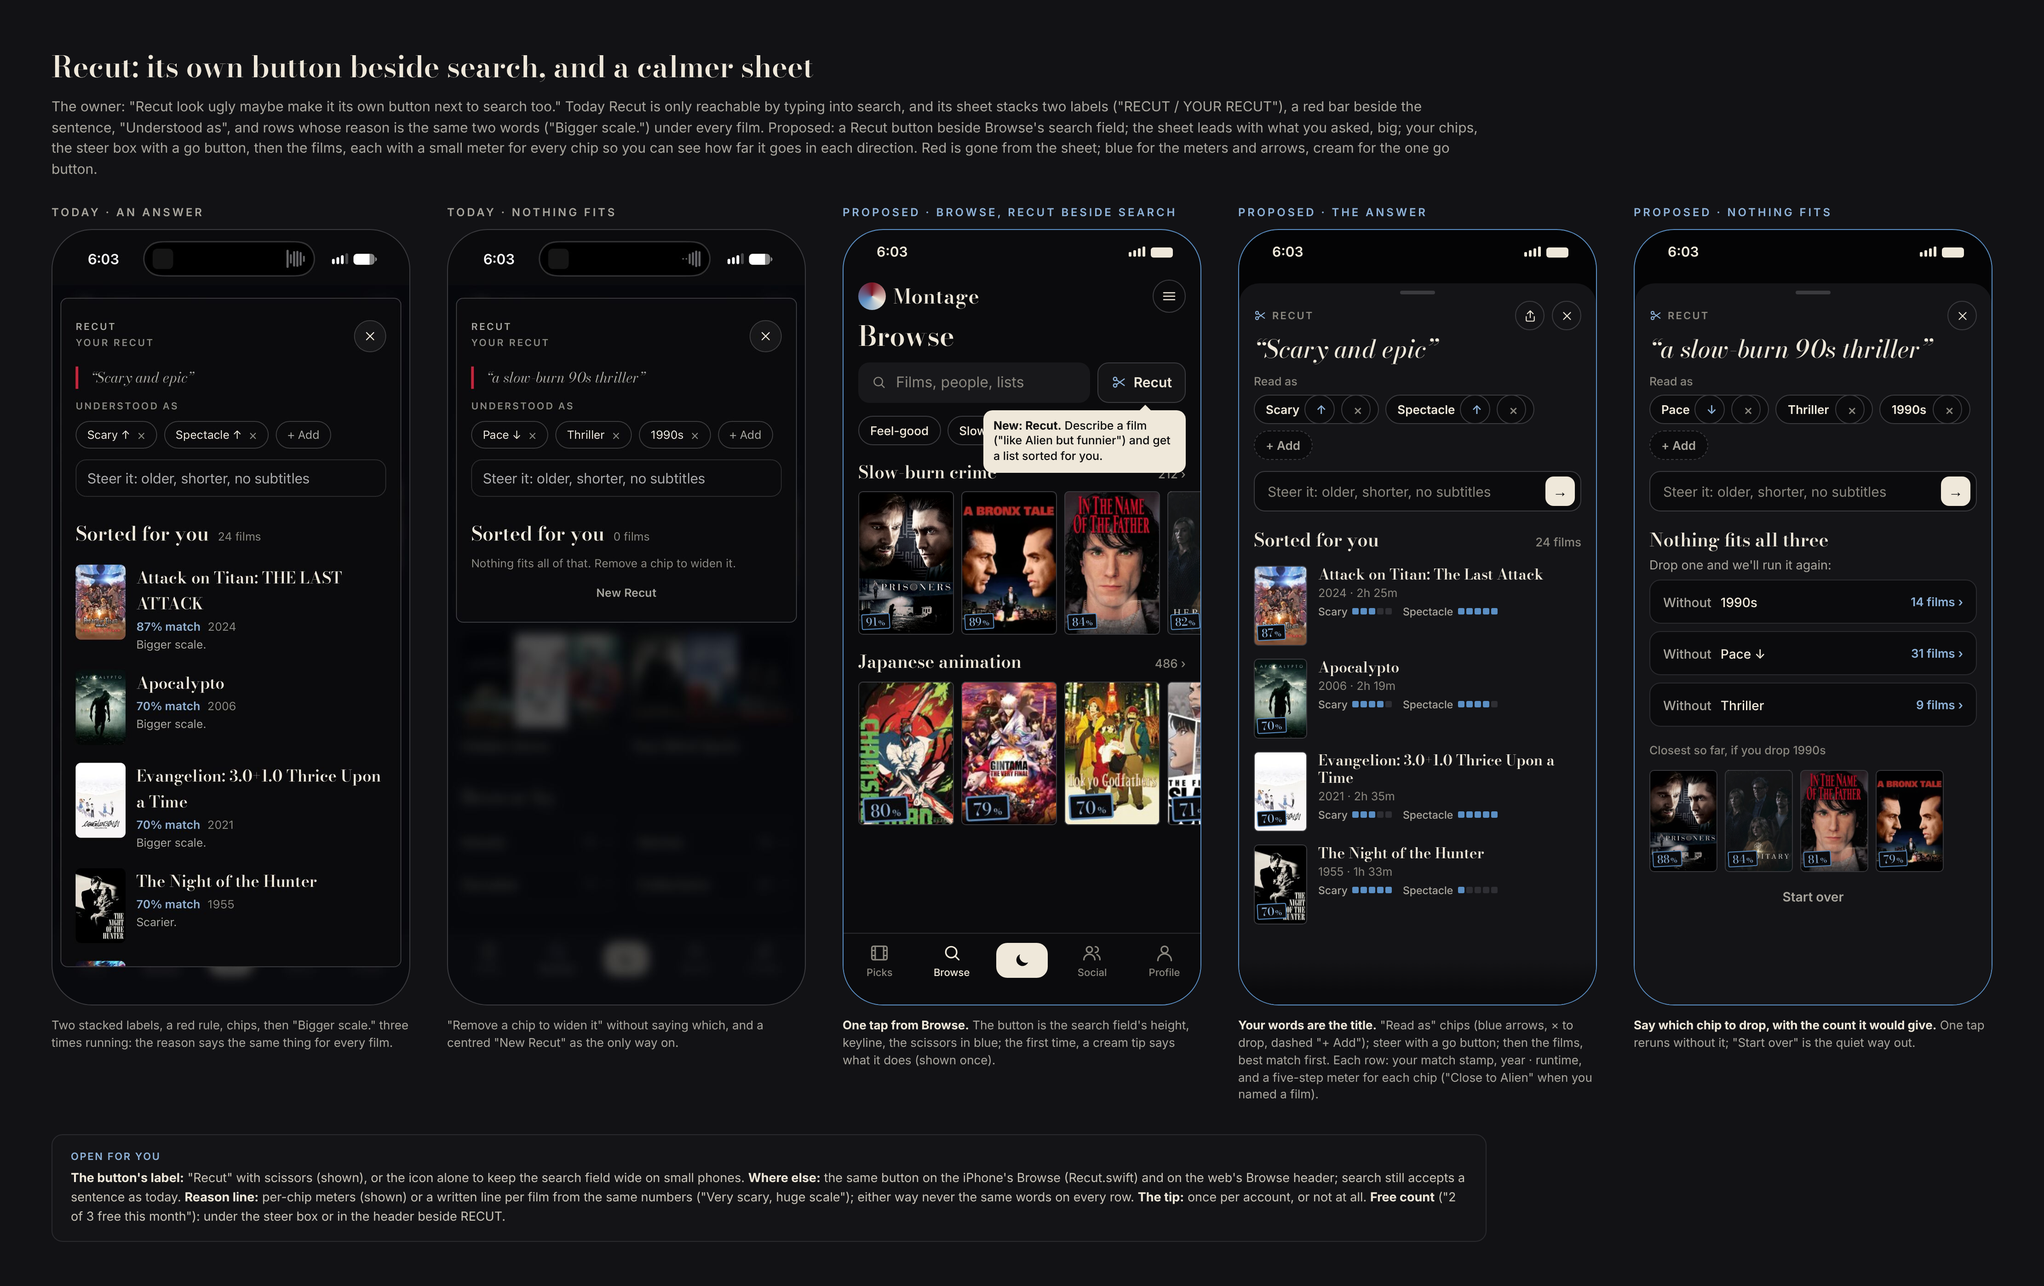
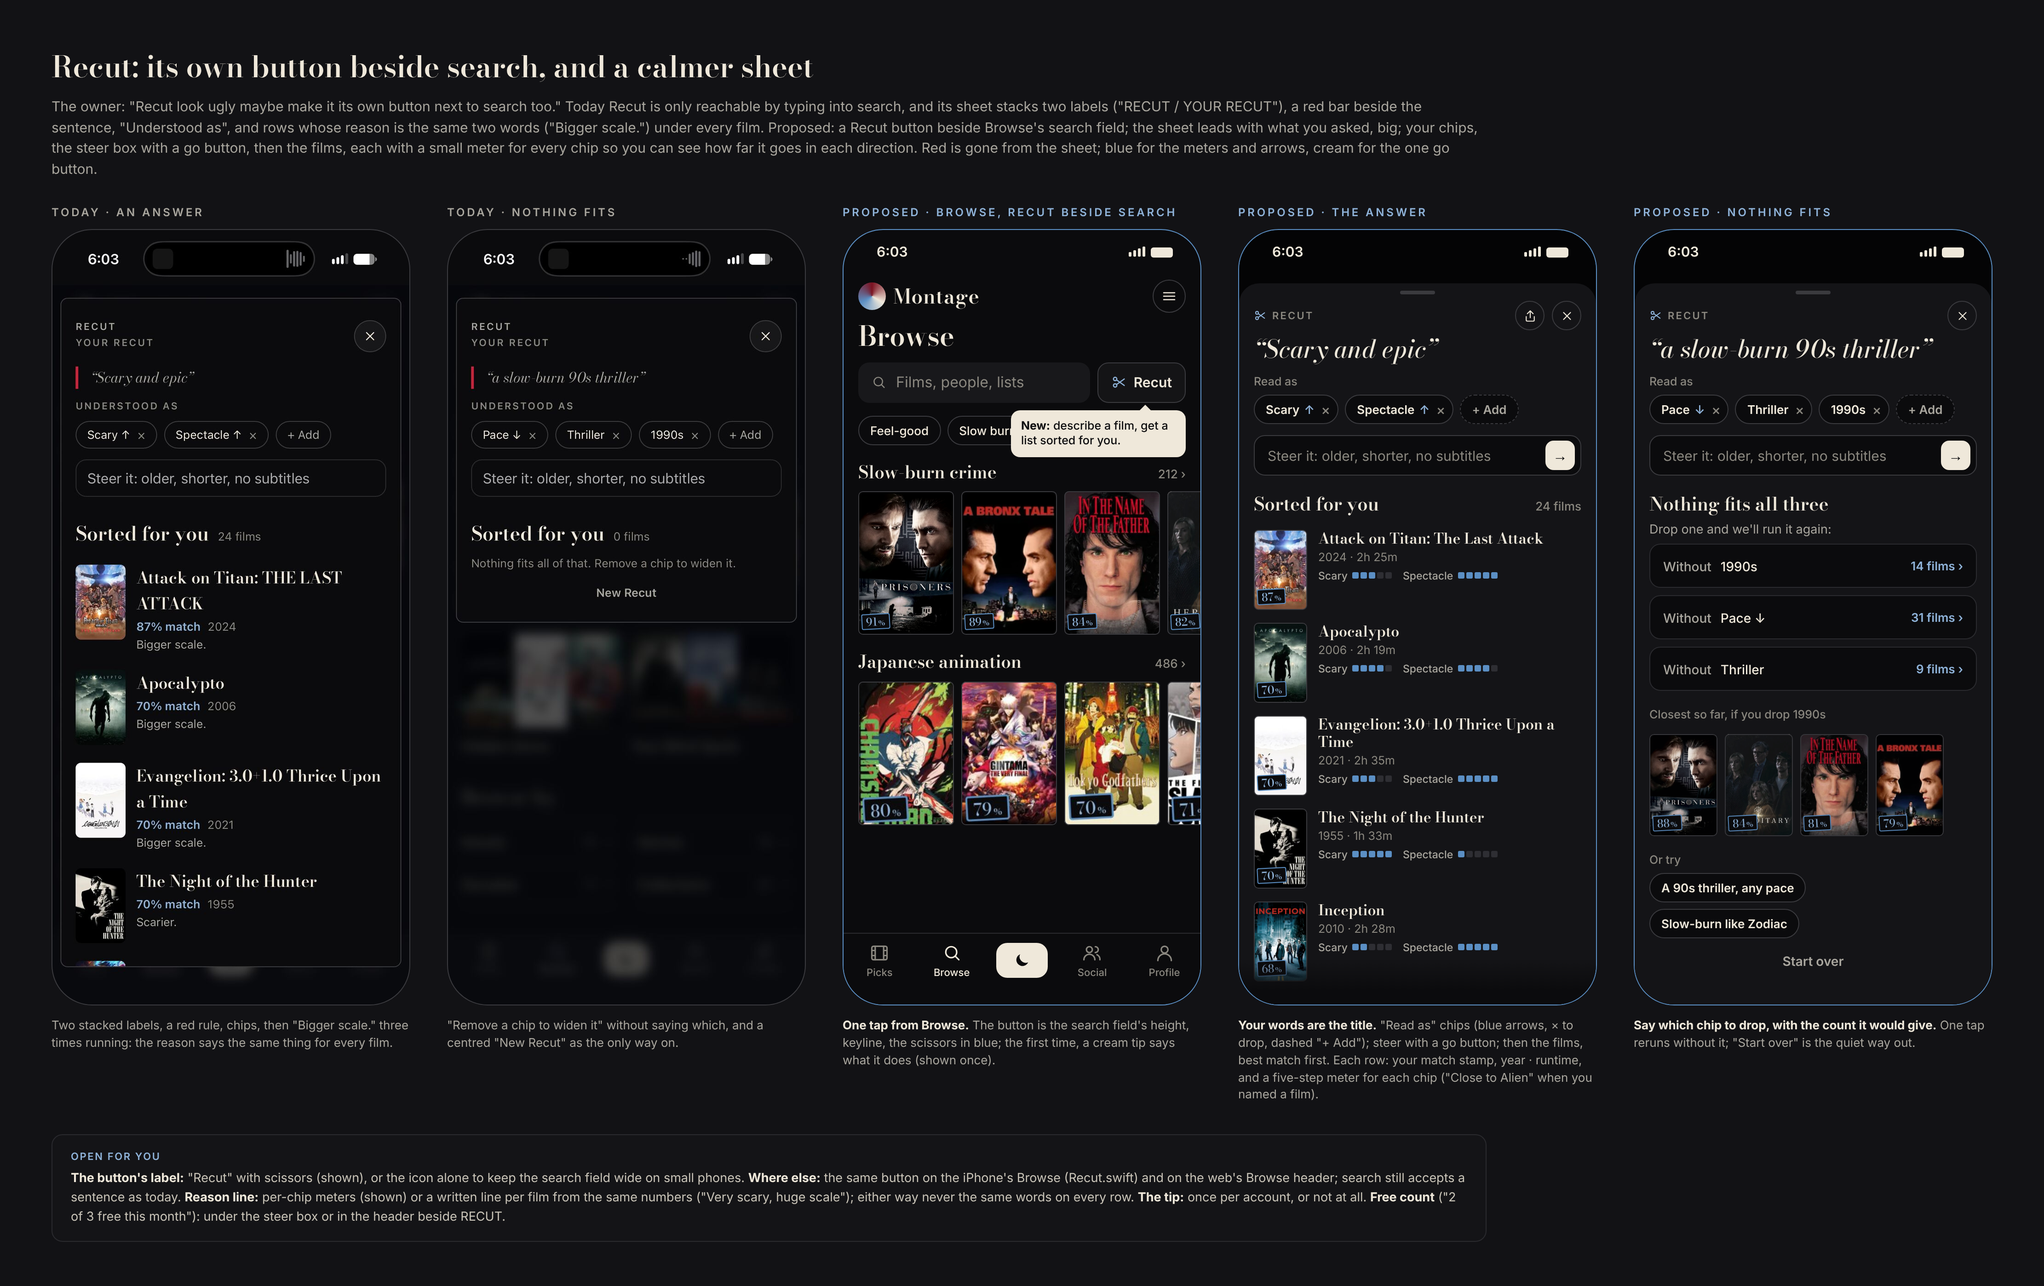
Mocks: year-goal-v2, recut-v2 revision
Claude-Session: https://claude.ai/code/session_013WRDCFXH8nihP92apJAVW7

diff --git a/mockups/journeys/year-goal-v2.html b/mockups/journeys/year-goal-v2.html
@@ -1,0 +1,94 @@
+<!doctype html><html><head><meta charset="utf-8"><title>Your year, on the profile</title>
+<link href="https://fonts.googleapis.com/css2?family=Bodoni+Moda:opsz,wght@6..96,500;6..96,600&family=Inter:wght@400;500;600;700&display=block" rel="stylesheet">
+<link rel="stylesheet" href="../proportions-common.css"><link rel="stylesheet" href="beli.css"><link rel="stylesheet" href="owner-notes.css">
+<style>
+.ph{display:flex;gap:16px;align-items:center;margin-top:14px}
+.ph img{width:76px;height:76px;object-fit:cover;outline:1px solid #EFE8DA;border-radius:2px}
+.ph .n{font:600 28px/1.05 'Bodoni Moda'}.ph .h{font:400 14px Inter;color:#A9A69E;margin-top:4px}
+.fl{font:400 14px Inter;color:#A9A69E;margin-top:12px}.fl b{color:#EFE8DA;font-weight:600}
+.bio{font:400 15px 'Bodoni Moda';color:#C9C4B8;margin-top:6px}
+.pbt{display:grid;grid-template-columns:1fr 1fr;gap:10px;margin-top:14px}
+.pbt span{height:40px;border-radius:999px;border:1px solid #3A3A3E;display:flex;align-items:center;justify-content:center;gap:6px;font:600 14px Inter}
+/* the year tile */
+.yt{margin-top:16px;padding:14px 14px 12px}
+.yt .k{display:flex;justify-content:space-between;align-items:center;font:600 11px Inter;letter-spacing:1.4px;text-transform:uppercase;color:#8A877F}
+.yt .mid{display:flex;align-items:flex-end;justify-content:space-between;margin-top:6px}
+.yt .big{font:500 44px/1 'Bodoni Moda'}.yt .big small{font:400 14px Inter;color:#A9A69E;margin-left:6px}
+.yt .sub{font:400 12.5px Inter;color:#8A877F;margin-top:4px}
+.mb{display:flex;align-items:flex-end;gap:3px;height:38px}
+.mb i{width:6px;border-radius:1.5px;background:#3A3A3E}.mb i.hi{background:#8FB3D9}.mb i.f{background:#2A2A2E}
+.trk{position:relative;height:4px;border-radius:2px;background:#2A2A2E;margin-top:12px}
+.trk i{position:absolute;left:0;top:0;bottom:0;border-radius:2px;background:#5B8FC4}
+.trk b{position:absolute;top:-3px;width:2px;height:10px;background:#EFE8DA;border-radius:1px}
+.yt .ft{display:flex;justify-content:space-between;align-items:center;margin-top:12px;font:600 13px Inter}
+.yt .ft .bl{color:#8FB3D9}.yt .ft .mu{color:#8A877F;font-weight:500}
+.ptabs{display:flex;gap:24px;margin-top:22px;font:500 16px Inter;color:#8A877F}.ptabs .on{color:#EFE8DA;box-shadow:inset 0 -2px 0 #5B8FC4;padding-bottom:8px}
+.arch{margin-top:18px;border-left:3px solid #7A1220;padding-left:14px}
+.arch .k{font:600 11px Inter;letter-spacing:1.6px;text-transform:uppercase;color:#A9A69E}.arch .n{font:600 42px/1.1 'Bodoni Moda';margin-top:4px}
+.stt{font:600 11px Inter;letter-spacing:1.3px;text-transform:uppercase;color:#8A877F;margin:20px 0 0}
+.stt:first-child{margin-top:0}
+.stt+.yt{margin-top:8px}
+/* the viewer */
+.vw{position:absolute;left:0;right:0;top:50px;bottom:0;background:#141417;border-radius:22px 22px 0 0;padding:8px 20px 0;z-index:6}
+.vh{display:flex;align-items:center;justify-content:space-between;height:40px}.vh b{font:600 22px 'Bodoni Moda'}.vh .ic2{width:32px;height:32px}
+.yc{position:relative;margin:10px 4px 0;height:604px;background:#0B0B0D;outline:1px solid #EFE8DA;box-shadow:6px 6px 0 #7A1220;border-radius:3px;padding:18px 18px 14px;display:flex;flex-direction:column}
+.yc .top{display:flex;justify-content:space-between;align-items:baseline;height:auto}
+.yc .top .k{font:600 10px Inter;letter-spacing:2.2px;color:#8FB3D9;text-transform:uppercase}.yc .top b{font:500 22px 'Bodoni Moda'}
+.mos{display:grid;grid-template-columns:repeat(5,1fr);gap:5px;margin-top:14px}.mos .sp{aspect-ratio:2/3;border-radius:2px}
+.yc .n{font:500 150px/.88 'Bodoni Moda';margin-top:18px;letter-spacing:-2px}
+.yc .l{font:400 17px 'Bodoni Moda';color:#C9C4B8;margin-top:6px}
+.yc .two{display:grid;grid-template-columns:1fr 1fr;gap:10px;margin-top:16px}
+.yc .two b{display:block;font:600 21px/1.1 'Bodoni Moda'}.yc .two span{font:400 12.5px 'Bodoni Moda';color:#A9A69E}
+.yc .bars{display:flex;align-items:flex-end;gap:5px;height:124px;margin-top:auto}
+.yc .bars i{flex:1;background:#2E2E33;border-radius:1.5px}.yc .bars i.hi{background:#8FB3D9}
+.yc .ml{display:flex;gap:5px;margin-top:5px}.yc .ml span{flex:1;text-align:center;font:500 9px Inter;color:#8A877F}
+.yc .foot{display:flex;justify-content:space-between;align-items:center;margin-top:14px;padding-top:0}
+.yc .foot .wm{font:600 16px 'Bodoni Moda';display:flex;align-items:center;gap:6px}.yc .foot .wm .fan{width:16px;height:16px}
+.yc .foot .u{font:600 9px Inter;letter-spacing:1.8px;color:#8FB3D9}
+.dots{display:flex;gap:6px;justify-content:center;margin-top:16px}.dots i{width:6px;height:6px;border-radius:3px;background:#3A3A3E}.dots i.on{width:18px;background:#EFE8DA}
+.vbt{display:grid;grid-template-columns:1fr 1fr;gap:10px;margin-top:14px}
+.vbt span{height:44px;border-radius:14px;display:flex;align-items:center;justify-content:center;gap:7px;font:600 15px Inter}
+.vbt .c{background:#EFE8DA;color:#0B0B0D}.vbt .s{border:1px solid #3A3A3E}
+</style></head><body>
+<h1>Your year in film and your goal: one tile on the profile, a fuller first card</h1>
+<p class="lede">The owner: "Year in film preview is ugly"; "The goal setting and year preview buttons are hideous." Today the profile has a boxed row with an oxblood-edged thumbnail ("76 / 2026"), a line that says "owner preview", and a separate blue "Set a film goal for 2026" line floating under it. The first card is a big number with half the card empty below the chart, a red spine down the left and three lines of small labels. Proposed: one quiet tile for the year (count, a month sparkline, and the goal as a thin bar when you have one) with two text actions on its last line; and a first card that fills its height: five posters from your year, the number, two facts, a full-width month chart, the wordmark.</p>
+<div class="frames">
+<div><div class="sl">Today · profile</div><div class="phone shot" style="background-image:url(../img/owner-profile-year.jpg)"></div><p class="cap">Two entry points in two styles: a card with a red-edged thumbnail and "7 cards · ready to share · owner preview", then a blue link alone on its own line.</p></div>
+<div><div class="sl">Today · the first card</div><div class="phone shot" style="background-image:url(../img/owner-year-card.jpg)"></div><p class="cap">The bottom third of the card is empty; the red spine competes with the blue February bar; Share and Save are round icons under a "Share this card" label.</p></div>
+<div><div class="sl new">Proposed · profile</div><div class="phone new" id="p1"></div><p class="cap"><b>One tile, "Your 2026".</b> 76 films, the month sparkline (busiest month in blue), and one footer line: "+ Set a goal" in blue on the left, "Your year in film ›" on the right. The archetype keeps the page's one oxblood mark.</p></div>
+<div><div class="sl new">Proposed · the tile through the year</div><div id="p2"></div><p class="cap"><b>The same tile in every state</b>, so the profile never grows a second year box. From Dec 1 to Jan 15 the footer offers the cards; the rest of the year it's the goal alone.</p></div>
+<div><div class="sl new">Proposed · the first card</div><div class="phone new" id="p3"></div><p class="cap"><b>A card that is full and sits on the black.</b> Five posters from your year across the top, 76, hours and the busiest month, the months as a full-width chart, then the wordmark. Cream keyline and the oxblood shadow (the hero rule) replace the red spine. Share is the one cream button; Save beside it.</p></div>
+</div>
+<div class="open"><h3>Open for you</h3><b>Which five posters:</b> your five highest-rated of the year (shown), or the first and last films you logged plus three between. <b>"Owner preview" label:</b> dropped from the tile (it only shows before Dec 1 for you); a small "Preview" tag in the viewer header instead. <b>Goal inside the tile, or its own line:</b> inside (shown); with no goal the footer's "+ Set a goal" is the only ask. <b>The streak:</b> moved from its own red chip into the tile's corner ("4-week streak"), or kept as today. <b>Hours:</b> keep "156 hours" on the tile's sub-line or only on the card. <b>Someone else's profile:</b> their tile shows only when they chose "Show on my profile", with no footer actions.</div>
+<script src="beli.js"></script>
+<script>
+const SB=t=>`<div class="sb"><span>${t}</span><span><span class="bars"><b style="height:5px"></b><b style="height:7px"></b><b style="height:9px"></b><b style="height:11px"></b></span><i></i></span></div>`;
+const M=[2,14,11,12,7,13,4,6,1,5,0,0];
+const mb=(cur=9,hi=1)=>`<span class="mb">${M.map((n,i)=>`<i class="${i===hi?'hi':i>cur?'f':''}" style="height:${i>cur?3:Math.max(3,Math.round(n/14*38))}px"></i>`).join('')}</span>`;
+const tile=(o)=>`<div class="card yt"><div class="k"><span>${o.k}</span>${o.kr||''}</div>
+<div class="mid"><div><div class="big">${o.big}<small>${o.small}</small></div><div class="sub">${o.sub}</div></div>${mb(o.cur,o.hi)}</div>
+${o.track?`<div class="trk"><i style="width:${o.track[0]}%"></i>${o.track[1]!=null?`<b style="left:${o.track[1]}%"></b>`:''}</div>`:''}
+${o.ft?`<div class="ft">${o.ft}</div>`:''}</div>`;
+const CR='<svg width="12" height="12" viewBox="0 0 24 24" fill="none" stroke="currentColor" stroke-width="2.2" stroke-linecap="round" style="vertical-align:-1px"><path d="M9 6l6 6-6 6"/></svg>';
+document.getElementById('p1').innerHTML=SB('6:00')+topbar+`<div class="ph"><img src="../img/owner-avatar.jpg"><div><div class="n">Alex Fiacco</div><div class="h">@alexfiacco</div></div></div>
+<div class="fl"><b>14</b> followers · <b>16</b> following</div><div class="bio">creator of Montage</div>
+<div class="pbt"><span>Edit profile</span><span><i data-g="share" data-s="15"></i>Share card</span></div>
+${tile({k:'Your 2026',kr:'<span style="letter-spacing:0;text-transform:none;font:500 12px Inter">4-week streak</span>',big:'76',small:'films',sub:'156 hours · busiest in February',cur:10,hi:1,ft:`<span class="bl">+ Set a goal</span><span>Your year in film ${CR}</span>`})}
+<div class="ptabs"><span class="on">Taste</span><span>Films</span><span>Watchlist</span><span>History</span></div>
+<div class="arch"><div class="k">Your cinema archetype</div><div class="n">Nihilist ›</div><div style="font:400 17px 'Bodoni Moda';color:#C9C4B8;margin-top:4px">With streaks of Lovestruck and IMAX Idealist</div></div><div style="display:flex;gap:4px;margin-top:16px"><i style="flex:5;height:5px;background:#7A1220"></i><i style="flex:2.4;height:5px;background:#3A3A3E"></i><i style="flex:3.6;height:5px;background:#3A3A3E"></i></div><div style="display:flex;justify-content:space-between;font:400 14px Inter;color:#A9A69E;margin-top:12px"><span>Your mix</span><span>›</span></div>`+tabs('Profile');
+document.getElementById('p2').innerHTML=
+`<div class="stt">No goal · Dec 1 to Jan 15 (the cards are ready)</div>${tile({k:'Your 2026',big:'76',small:'films',sub:'156 hours · busiest in February',cur:11,hi:1,ft:`<span class="bl">+ Set a goal</span><span>Your year in film ${CR}</span>`})}
+<div class="stt">Goal set · the rest of the year</div>${tile({k:'Your 2026 goal',kr:'<span style="letter-spacing:0;text-transform:none;font:500 12px Inter;color:#8FB3D9">Change</span>',big:'41',small:'of 52 films',sub:'2 ahead of pace',cur:9,hi:1,track:[79,75]})}
+<div class="stt">Goal met · with the cards</div>${tile({k:'Your 2026',kr:'<span class="tstamp cap">Goal met</span>',big:'76',small:'of 52 films',sub:'Met on Sep 3 · 156 hours',cur:11,hi:1,track:[100,null],ft:`<span class="mu">Change goal</span><span>Your year in film ${CR}</span>`})}
+<div class="stt">Someone else's (they chose to show it)</div>${tile({k:"Jacob's 2026 goal",big:'61',small:'of 100 films',sub:'8 behind pace',cur:9,hi:5,track:[61,69]})}`;
+document.getElementById('p3').innerHTML=SB('5:59')+`<div class="dim"></div><div class="vw"><div class="grab" style="margin-bottom:4px"></div><div class="vh"><b>Your 2026 in film</b><span class="ic2"><i data-g="x" data-s="15"></i></span></div>
+<div class="yc"><div class="top"><span class="k">Your year in film</span><b>2026</b></div>
+<div class="mos">${['prisoners.png','owner-recut-p4.jpg','bronx.png','owner-recut-p1.jpg','itnotf.png'].map(i=>`<div class="sp" style="background-image:url(../img/${i})"></div>`).join('')}</div>
+<div class="n">76</div><div class="l">films, rewatches included</div>
+<div class="two"><div><b>156 hours</b><span>of film</span></div><div><b>February</b><span>busiest month · 14 films</span></div></div>
+<div class="bars">${M.map((n,i)=>`<i class="${i===1?'hi':''}" style="height:${Math.max(3,Math.round(n/14*120))}px"></i>`).join('')}</div>
+<div class="ml">${'JFMAMJJASOND'.split('').map(m=>`<span>${m}</span>`).join('')}</div>
+<div class="foot"><span class="wm"><span class="fan"></span>Montage</span><span class="u">MONTAGEFILM.APP</span></div></div>
+<div class="dots"><i class="on"></i><i></i><i></i><i></i><i></i><i></i><i></i></div>
+<div class="vbt"><span class="c"><i data-g="share" data-s="16"></i>Share</span><span class="s"><i data-g="dl" data-s="16"></i>Save</span></div></div>`;
+</script><script src="growth-icons.js"></script></body></html>

diff --git a/mockups/journeys/recut-v2.html b/mockups/journeys/recut-v2.html
@@ -6,7 +6,7 @@
 .sr .srch{flex:1}
 .rcb{height:44px;border-radius:12px;border:1px solid #3A3A3E;background:rgba(255,255,255,.04);display:inline-flex;align-items:center;gap:7px;padding:0 14px;font:600 15px Inter;color:#EFE8DA;flex:none}
 .rcb svg{width:17px;height:17px;fill:none;stroke:#8FB3D9;stroke-width:1.75;stroke-linecap:round}
-.tip{position:absolute;right:0;top:52px;width:220px;background:#EFE8DA;color:#0B0B0D;border-radius:10px;padding:9px 11px;font:500 12.5px/1.35 Inter;z-index:3}
+.tip{position:absolute;right:0;top:52px;width:190px;background:#EFE8DA;color:#0B0B0D;border-radius:10px;padding:9px 11px;font:500 12.5px/1.35 Inter;z-index:3}
 .tip b{font-weight:700}.tip:before{content:"";position:absolute;right:38px;top:-6px;border:6px solid transparent;border-top:0;border-bottom-color:#EFE8DA}
 .moods{display:flex;gap:7px;margin-top:14px;overflow:hidden}
 .moods span{height:32px;padding:0 12px;border-radius:999px;border:1px solid #3A3A3E;display:inline-flex;align-items:center;font:500 13px Inter;white-space:nowrap}
@@ -22,9 +22,9 @@
 .q2{font:italic 500 27px/1.15 'Bodoni Moda';margin-top:4px}
 .ra{font:500 12.5px Inter;color:#8A877F;margin-top:12px}
 .rch{display:flex;gap:7px;flex-wrap:wrap;margin-top:7px}
-.rch span{height:32px;padding:0 8px 0 12px;border-radius:999px;border:1px solid #3A3A3E;background:#0B0B0D;display:inline-flex;align-items:center;gap:5px;font:600 13px Inter;white-space:nowrap}
+.rch>span{height:32px;padding:0 8px 0 12px;border-radius:999px;border:1px solid #3A3A3E;background:#0B0B0D;display:inline-flex;align-items:center;gap:5px;font:600 13px Inter;white-space:nowrap}
 .rch .ar{color:#8FB3D9}.rch .x{color:#8A877F;font-weight:500;margin-left:2px;font-size:15px}
-.rch .ad{padding:0 12px;color:#A9A69E;border-style:dashed}
+.rch>.ad{padding:0 12px;color:#A9A69E;border-style:dashed}
 .steer{display:flex;align-items:center;height:44px;border-radius:12px;border:1px solid #3A3A3E;background:#0B0B0D;margin-top:12px;padding:0 6px 0 14px;font:400 15px Inter;color:#8A877F}
 .steer span{flex:1}.steer b{width:32px;height:32px;border-radius:9px;background:#EFE8DA;color:#0B0B0D;display:flex;align-items:center;justify-content:center;font:700 16px Inter}
 .rr{display:flex;gap:12px;padding:7px 0}
@@ -59,7 +59,7 @@ const meter=(n)=>`<i>${[1,2,3,4,5].map(k=>`<b class="${k<=n?'on':''}"></b>`).joi
 const rrow=(img,m,t,mm,ms,extra='')=>`<div class="rr"><div class="sp" style="background-image:url(../img/${img})">${stamp(m,12)}</div><div class="tx"><div class="t">${t}</div><div class="mm">${mm}</div><div class="mtr">${ms.map(([l,n])=>`<span>${l} ${meter(n)}</span>`).join('')}${extra}</div></div></div>`;
 document.getElementById('p1').innerHTML=SB('6:03')+topbar+`<div class="h1" style="margin-top:6px">Browse</div>
 <div class="sr"><span class="srch"><i data-g="search" data-s="17"></i>Films, people, lists</span><span class="rcb">${SC}Recut</span>
-<div class="tip"><b>New: Recut.</b> Describe a film ("like Alien but funnier") and get a list sorted for you.</div></div>
+<div class="tip"><b>New:</b> describe a film, get a list sorted for you.</div></div>
 <div class="moods"><span>Feel-good</span><span>Slow burn</span><span>Mind-bending</span><span>Short</span></div>
 <div class="shelf"><div class="sh"><h4>Slow-burn crime</h4><span>212 ›</span></div><div class="strip">${sp('prisoners',{st:91,ss:12})}${sp('bronx',{st:89,ss:12})}${sp('itnotf',{st:84,ss:12})}${sp('hereditary',{st:82,ss:12})}</div></div>
 <div class="shelf"><div class="sh"><h4>Japanese animation</h4><span>486 ›</span></div><div class="strip">${[1,3,5,4].map((i)=>`<div class="sp" style="background-image:url(../img/owner-anime-${i}.jpg)"></div>`).join('')}</div></div>`+tabs('Browse');
@@ -73,6 +73,7 @@ ${rrow('owner-recut-p1.jpg',87,'Attack on Titan: The Last Attack','2024 · 2h 25
 ${rrow('owner-recut-p2.jpg',70,'Apocalypto','2006 · 2h 19m',[['Scary',4],['Spectacle',4]])}
 ${rrow('owner-recut-p3.jpg',70,'Evangelion: 3.0+1.0 Thrice Upon a Time','2021 · 2h 35m',[['Scary',3],['Spectacle',5]])}
 ${rrow('owner-recut-p4.jpg',70,'The Night of the Hunter','1955 · 1h 33m',[['Scary',5],['Spectacle',1]])}
+${rrow('inception.png',68,'Inception','2010 · 2h 28m',[['Scary',2],['Spectacle',5]])}
 </div><div class="fade" style="z-index:7;height:50px"></div>`;
 document.getElementById('p3').innerHTML=SB('6:03')+`<div class="dim" style="z-index:5"></div><div class="sheet"><div class="grab" style="margin-bottom:6px"></div>
 <div class="shd"><span class="k">${SC}Recut</span><span class="ic2"><i data-g="x" data-s="15"></i></span></div>
@@ -86,5 +87,5 @@ document.getElementById('p3').innerHTML=SB('6:03')+`<div class="dim" style="z-in
 <div class="drop"><s>Without</s> Thriller<span class="n">9 films ›</span></div>
 <div class="ra" style="margin-top:18px">Closest so far, if you drop 1990s</div>
 <div class="sk">${sp('prisoners',{st:88,ss:12})}${sp('hereditary',{st:84,ss:12})}${sp('itnotf',{st:81,ss:12})}${sp('bronx',{st:79,ss:12})}</div>
-<div style="text-align:center;margin-top:18px;font:600 14px Inter;color:#A9A69E">Start over</div></div>`;
+<div class="ra" style="margin-top:18px">Or try</div><div class="rch" style="flex-direction:column;align-items:flex-start"><span style="padding:0 12px">A 90s thriller, any pace</span><span style="padding:0 12px">Slow-burn like Zodiac</span></div><div style="text-align:center;margin-top:16px;font:600 14px Inter;color:#A9A69E">Start over</div></div>`;
 </script><script src="growth-icons.js"></script></body></html>
